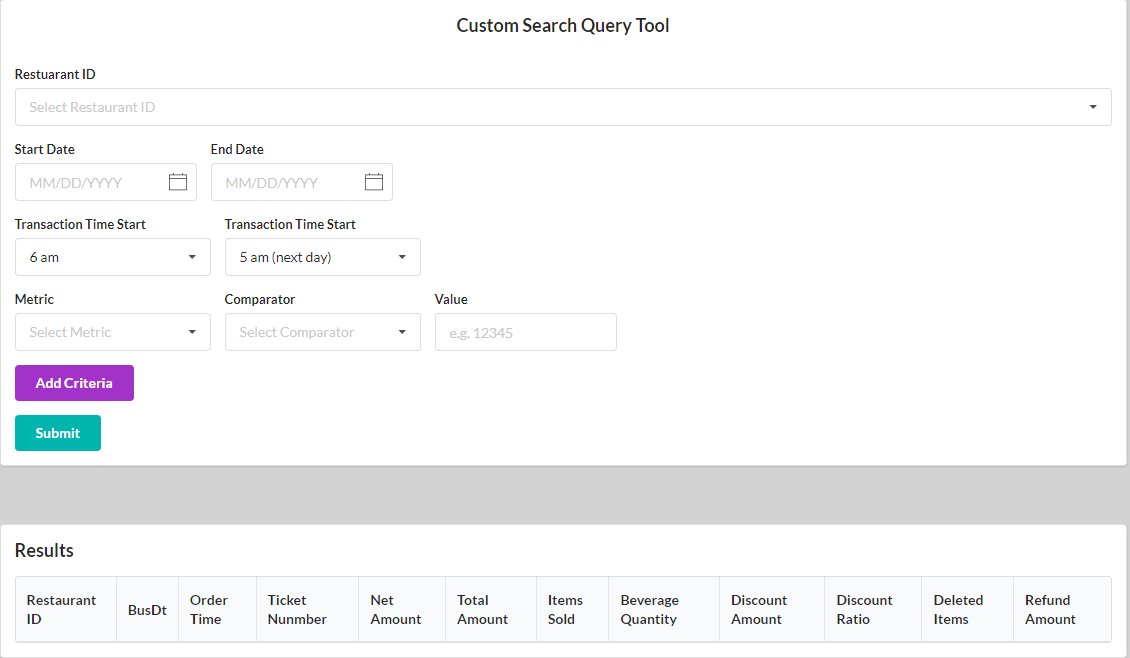
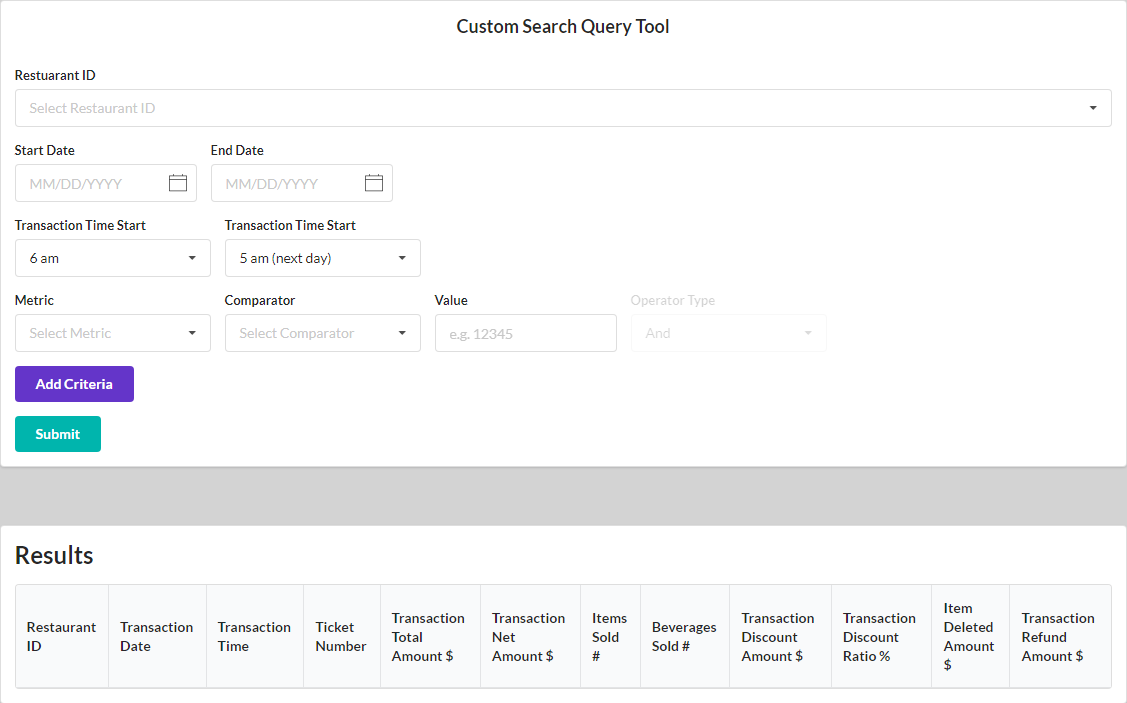
updated readme and changed image

Changed region(s): [[0.0, 0.0, 1.0, 1.0], [0.4037, 0.0, 0.5901, 0.0608], [0.3727, 0.4255, 0.4658, 0.5167]]

diff --git a/README.md b/README.md
@@ -4,4 +4,4 @@ The overall project utilizes a form that can be filled out by a user and
 pulls data from an API once the user submits the data they select. The data
 that is returned from the API is then displayed in a table.
 
-![websiteImage](https://user-images.githubusercontent.com/41026156/140669292-95892b2a-6f94-41b3-830a-672449883e20.png)
+![websiteImage](https://user-images.githubusercontent.com/41026156/141666252-115a274b-f6e2-4c9c-bb7a-1450193c3e17.png)
